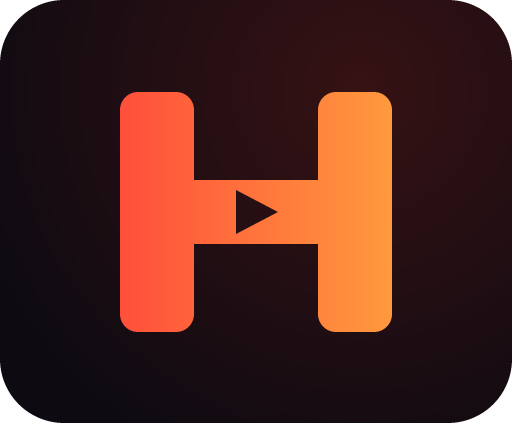
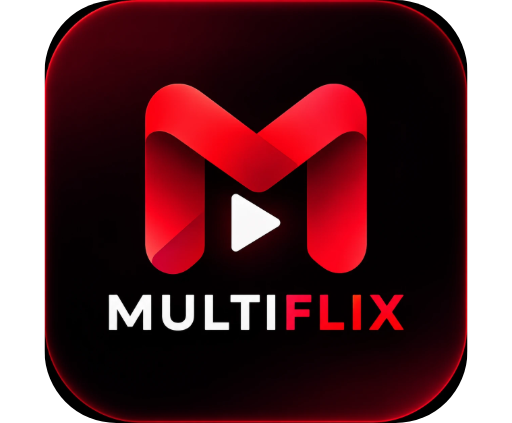
feat: marca MultiFlix, pôsteres das pastas e correções do player na TV
- Player: html transparente durante a reprodução (vídeo do AVPlay aparecia
  preto) e <object> do AVPlay invisível (Tizen 9 desenhava um ícone no centro)
- Servidor: em pasta com um único filme (ou na pasta da série), qualquer
  imagem vira a capa — nomes conhecidos primeiro, senão a maior
- App: cards em formato pôster (2:3), pôster nítido no banner e nos detalhes
- Logo e ícone MultiFlix; nome exibido na TV passa a ser MultiFlix (ID do
  pacote mantido para preservar o histórico)

diff --git a/homeflix/src/styles/main.css b/homeflix/src/styles/main.css
@@ -51,9 +51,14 @@ body {
   transform-origin: 0 0;
 }
 
-/* AVPlay desenha o vídeo atrás da página: tudo precisa ficar transparente. */
-body.is-playing,
-body.is-playing .stage {
+/*
+ * AVPlay desenha o vídeo numa camada de hardware ATRÁS da página: html, body e
+ * palco precisam ficar transparentes, senão ouve-se o áudio mas a tela fica preta.
+ */
+html.is-playing,
+html.is-playing body,
+html.is-playing .stage,
+html.is-playing .screens {
   background: transparent;
 }
 
@@ -80,22 +85,9 @@ body.is-playing .stage {
 /* ---------- Marca ---------- */
 
 .brand {
-  font-size: 46px;
-  font-weight: 800;
-  letter-spacing: 3px;
-  line-height: 1;
-}
-
-.brand__home {
-  color: var(--text);
-}
-
-.brand__flix {
-  color: var(--brand);
-  background: linear-gradient(90deg, var(--brand), var(--brand-2));
-  -webkit-background-clip: text;
-  background-clip: text;
-  -webkit-text-fill-color: transparent;
+  display: block;
+  height: 72px;
+  width: auto;
 }
 
 .topbar {
@@ -239,7 +231,39 @@ body.is-playing .stage {
   top: 0;
   left: 0;
   width: 1920px;
-  height: 660px;
+  height: 600px;
+}
+
+.artwork--hero.artwork--loaded .artwork__image,
+.artwork--backdrop.artwork--loaded .artwork__image {
+  opacity: 0.22;
+}
+
+.hero__poster {
+  position: absolute;
+  top: 120px;
+  right: var(--gutter);
+  width: 260px;
+  height: 390px;
+  border-radius: var(--radius);
+  overflow: hidden;
+  box-shadow: 0 24px 60px rgba(0, 0, 0, 0.7);
+}
+
+.details__poster {
+  position: absolute;
+  top: 150px;
+  right: 140px;
+  width: 420px;
+  height: 630px;
+  border-radius: 16px;
+  overflow: hidden;
+  box-shadow: 0 30px 80px rgba(0, 0, 0, 0.75);
+}
+
+.artwork--poster {
+  width: 100%;
+  height: 100%;
 }
 
 .hero--empty {
@@ -261,8 +285,8 @@ body.is-playing .stage {
 .hero__content {
   position: absolute;
   left: var(--gutter);
-  top: 170px;
-  width: 980px;
+  top: 160px;
+  width: 1100px;
 }
 
 .hero__kind,
@@ -317,7 +341,7 @@ body.is-playing .stage {
 
 .home__body {
   position: absolute;
-  top: 560px;
+  top: 520px;
   left: 0;
   right: 0;
   bottom: 0;
@@ -356,16 +380,21 @@ body.is-playing .stage {
 .card {
   position: relative;
   flex: none;
-  width: 400px;
+  width: 240px;
   margin-right: 24px;
   transition: transform 160ms var(--ease);
   transform-origin: 50% 40%;
 }
 
-.artwork--card {
-  width: 400px;
-  height: 225px;
+.card .artwork--poster {
+  width: 240px;
+  height: 360px;
   border-radius: var(--radius);
+}
+
+.card .artwork__title {
+  font-size: 26px;
+  -webkit-line-clamp: 4;
 }
 
 .card.is-focused {
@@ -373,7 +402,7 @@ body.is-playing .stage {
   z-index: 2;
 }
 
-.card.is-focused .artwork--card {
+.card.is-focused .artwork--poster {
   box-shadow: 0 0 0 5px var(--focus-ring), 0 18px 40px rgba(0, 0, 0, 0.6);
 }
 
@@ -388,7 +417,7 @@ body.is-playing .stage {
 }
 
 .card__title {
-  font-size: 26px;
+  font-size: 24px;
   font-weight: 600;
   white-space: nowrap;
   overflow: hidden;
@@ -406,7 +435,7 @@ body.is-playing .stage {
 
 .card-progress {
   position: absolute;
-  top: 205px;
+  top: 340px;
   left: 14px;
   right: 14px;
   height: 7px;
@@ -673,6 +702,14 @@ body.is-playing .stage {
 
 .player__html5 {
   background: #000;
+}
+
+/*
+ * O <object> do AVPlay só precisa existir; o vídeo é desenhado na camada de
+ * hardware. No Tizen 9 ele exibe um ícone de plugin no centro se ficar visível.
+ */
+.player__avplay {
+  opacity: 0;
 }
 
 .player__subtitles {

diff --git a/homeflix/src/components/ui.ts b/homeflix/src/components/ui.ts
@@ -1,6 +1,7 @@
 import type { CardItem, HomeSection } from '../models/library';
 import { h } from '../utils/dom';
 import { displayTitle, hashString } from '../utils/format';
+import logoUrl from '../assets/brand/logo.png';
 
 const SVG_NS = 'http://www.w3.org/2000/svg';
 
@@ -75,7 +76,7 @@ export function artwork(title: string, artworkUrl: string | null, resolve: (path
   const placeholder = h(
     'div',
     { class: `artwork__placeholder artwork__placeholder--${variant}` },
-    h('span', { class: 'artwork__mark' }, 'HOMEFLIX'),
+    h('span', { class: 'artwork__mark' }, 'MULTIFLIX'),
     h('span', { class: 'artwork__title' }, displayTitle(title)),
   );
   placeholder.style.backgroundImage = `linear-gradient(135deg, hsl(${hue}, 45%, 24%) 0%, hsl(${(hue + 40) % 360}, 55%, 12%) 70%, #0b0b0f 100%)`;
@@ -101,7 +102,7 @@ export function card(item: CardItem, resolve: (path: string) => string, onSelect
       'data-key': item.key,
       onclick: () => onSelect(item),
     },
-    artwork(item.title, item.artworkUrl, resolve),
+    artwork(item.title, item.artworkUrl, resolve, 'poster'),
     item.badge ? h('span', { class: 'card__badge' }, icon('check', 'icon icon--small'), item.badge) : null,
     progressBar(item.progress, 'card-progress'),
     h('div', { class: 'card__caption' }, h('div', { class: 'card__title' }, displayTitle(item.title)), h('div', { class: 'card__subtitle' }, item.subtitle)),
@@ -130,5 +131,10 @@ export function spinner(): HTMLElement {
 }
 
 export function brand(): HTMLElement {
-  return h('div', { class: 'brand' }, h('span', { class: 'brand__home' }, 'HOME'), h('span', { class: 'brand__flix' }, 'FLIX'));
+  return h('img', { class: 'brand', src: logoUrl, alt: 'MultiFlix', decoding: 'async' });
+}
+
+/** Pôster nítido (vertical) ao lado do texto, no banner e nos detalhes. Só quando há imagem real. */
+export function posterPanel(title: string, artworkUrl: string | null, resolve: (path: string) => string, className: string): HTMLElement | null {
+  return artworkUrl ? h('div', { class: className }, artwork(title, artworkUrl, resolve, 'poster')) : null;
 }

diff --git a/home-media-server/test/library-builder.test.ts b/home-media-server/test/library-builder.test.ts
@@ -156,6 +156,22 @@ describe('capas existentes', () => {
     expect(byPath(library, 'Pasta Unica/x.mkv').artwork).toEqual({ relativePath: 'Pasta Unica/folder.png', format: 'png' });
   });
 
+  it('usa qualquer imagem da pasta de um único filme (a maior, se houver várias)', () => {
+    const custom = buildLibrary('local', [
+      { relativePath: 'Home Alone/Home.Alone.1990.mkv', sizeBytes: 1000, modifiedAt: new Date(0) },
+      { relativePath: 'Home Alone/A1T+lZ6iUZL._AC_UF894,1000_QL80_.jpg', sizeBytes: 121_050, modifiedAt: new Date(0) },
+      { relativePath: 'Home Alone/thumb.jpg', sizeBytes: 3_000, modifiedAt: new Date(0) },
+      { relativePath: 'Mickey/4c55a1e6.png', sizeBytes: 47_340, modifiedAt: new Date(0) },
+      { relativePath: 'Mickey/Mickey.mkv', sizeBytes: 1000, modifiedAt: new Date(0) },
+      { relativePath: 'Raiz A.mkv', sizeBytes: 1000, modifiedAt: new Date(0) },
+      { relativePath: 'Raiz B.mkv', sizeBytes: 1000, modifiedAt: new Date(0) },
+      { relativePath: 'qualquer.jpg', sizeBytes: 9_999, modifiedAt: new Date(0) },
+    ]);
+    expect(byPath(custom, 'Home Alone/Home.Alone.1990.mkv').artwork?.relativePath).toBe('Home Alone/A1T+lZ6iUZL._AC_UF894,1000_QL80_.jpg');
+    expect(byPath(custom, 'Mickey/Mickey.mkv').artwork).toEqual({ relativePath: 'Mickey/4c55a1e6.png', format: 'png' });
+    expect(byPath(custom, 'Raiz A.mkv').artwork).toBeNull(); // pasta com vários vídeos: não adivinha
+  });
+
   it('usa o pôster da pasta da série', () => {
     expect(library.series[0]?.artwork).toEqual({ relativePath: 'Series/Show/poster.jpg', format: 'jpg' });
   });

diff --git a/home-media-server/src/library/library-builder.ts b/home-media-server/src/library/library-builder.ts
@@ -63,6 +63,11 @@ export function buildLibrary(
 
   const subtitlesByVideo = associateSubtitles(sourceId, subtitleFiles, videosByDir);
 
+  /**
+   * Capa que representa a pasta inteira: primeiro os nomes conhecidos (poster, capa...);
+   * senão, qualquer imagem da pasta (a maior, que costuma ser o pôster e não uma miniatura).
+   * Só deve ser usada quando a pasta pertence a um único filme ou a uma série.
+   */
   const folderArt = (dir: string | null): Artwork | null => {
     if (dir === null) return null;
     const images = imagesByDir.get(dir === '' ? '.' : dir) ?? [];
@@ -70,7 +75,8 @@ export function buildLibrary(
       const found = images.find((image) => lowerKey(baseOf(image.relativePath)) === wanted);
       if (found) return toArtwork(found);
     }
-    return null;
+    const largest = [...images].sort((a, b) => b.sizeBytes - a.sizeBytes || collator.compare(a.relativePath, b.relativePath))[0];
+    return largest ? toArtwork(largest) : null;
   };
 
   const videoArt = (video: DiscoveredFile): Artwork | null => {
@@ -81,7 +87,7 @@ export function buildLibrary(
       const found = images.find((image) => lowerKey(baseOf(image.relativePath)) === base + suffix);
       if (found) return toArtwork(found);
     }
-    // "poster.jpg" na pasta só vale para o vídeo quando ele é o único da pasta.
+    // Imagens da pasta (qualquer nome) só valem para o vídeo quando ele é o único da pasta.
     return (videosByDir.get(dir)?.length ?? 0) === 1 ? folderArt(dir) : null;
   };
 

diff --git a/homeflix/src/screens/home-screen.ts b/homeflix/src/screens/home-screen.ts
@@ -1,6 +1,6 @@
 import { ApiError } from '../api/media-api';
 import type { AppContext } from '../app-context';
-import { artwork, brand, button, progressBar, row, spinner } from '../components/ui';
+import { artwork, brand, button, posterPanel, progressBar, row, spinner } from '../components/ui';
 import { buildHomeSections, type CardItem, type HomeSection } from '../models/library';
 import type { Screen } from '../navigation/router';
 import type { RemoteKey } from '../platform/keys';
@@ -140,6 +140,7 @@ export class HomeScreen implements Screen {
     append(this.hero, [
       artwork(item.title, item.artworkUrl, (path) => this.ctx.api.resolve(path), 'hero'),
       h('div', { class: 'hero__shade' }),
+      posterPanel(item.title, item.artworkUrl, (path) => this.ctx.api.resolve(path), 'hero__poster'),
       h(
         'div',
         { class: 'hero__content' },

diff --git a/homeflix/src/screens/player-screen.ts b/homeflix/src/screens/player-screen.ts
@@ -149,7 +149,7 @@ export class PlayerScreen implements Screen {
   }
 
   async mount(): Promise<void> {
-    document.body.classList.add('is-playing');
+    document.documentElement.classList.add('is-playing');
     document.addEventListener('visibilitychange', this.onVisibility);
     window.addEventListener('pagehide', this.onPageHide);
     setScreenSaver(false);
@@ -242,7 +242,7 @@ export class PlayerScreen implements Screen {
     this.menu?.close();
     this.playback?.stop();
     this.playback = null;
-    document.body.classList.remove('is-playing');
+    document.documentElement.classList.remove('is-playing');
     document.removeEventListener('visibilitychange', this.onVisibility);
     window.removeEventListener('pagehide', this.onPageHide);
     setScreenSaver(true);

diff --git a/homeflix/src/screens/movie-screen.ts b/homeflix/src/screens/movie-screen.ts
@@ -1,5 +1,5 @@
 import type { AppContext } from '../app-context';
-import { artwork, button, progressBar } from '../components/ui';
+import { artwork, button, posterPanel, progressBar } from '../components/ui';
 import type { Video } from '../models/media';
 import type { Screen } from '../navigation/router';
 import { append, clear, h } from '../utils/dom';
@@ -21,6 +21,7 @@ export class MovieScreen implements Screen {
       { class: 'screen details' },
       artwork(video.title, video.artworkUrl, (path) => ctx.api.resolve(path), 'backdrop'),
       h('div', { class: 'details__shade' }),
+      posterPanel(video.title, video.artworkUrl, (path) => ctx.api.resolve(path), 'details__poster'),
       this.panel,
     );
   }

diff --git a/homeflix/src/main.ts b/homeflix/src/main.ts
@@ -66,9 +66,9 @@ function boot(): void {
     if (exitDialogOpen) return;
     exitDialogOpen = true;
     const choice = await showDialog(overlays, {
-      title: 'Sair do HomeFlix?',
+      title: 'Sair do MultiFlix?',
       actions: [
-        { value: 'stay', label: 'Continuar no HomeFlix', primary: true },
+        { value: 'stay', label: 'Continuar no MultiFlix', primary: true },
         { value: 'exit', label: 'Sair' },
       ],
     });

diff --git a/homeflix/src/screens/settings-screen.ts b/homeflix/src/screens/settings-screen.ts
@@ -89,7 +89,7 @@ export class SettingsScreen implements Screen {
         'section',
         { class: 'settings__section settings__about' },
         h('h2', {}, 'Sobre'),
-        h('p', {}, `HomeFlix ${__APP_VERSION__} · ${deviceDescription()}`),
+        h('p', {}, `MultiFlix ${__APP_VERSION__} · ${deviceDescription()}`),
       ),
     );
 

diff --git a/homeflix/index.html b/homeflix/index.html
@@ -3,7 +3,7 @@
   <head>
     <meta charset="utf-8" />
     <meta name="viewport" content="width=1920, height=1080, user-scalable=no" />
-    <title>HomeFlix</title>
+    <title>MultiFlix</title>
     <!-- tizen:webapis -->
   </head>
   <body>

diff --git a/homeflix/README.md b/homeflix/README.md
@@ -1,5 +1,7 @@
 # HomeFlix — app Samsung Smart TV (Tizen)
 
+> Na TV o app aparece como **MultiFlix** (logo e ícone em `src/assets/brand/` e `tizen/icon.png`). O nome interno do projeto e o ID do pacote (`HmFlxApp01.HomeFlix`) continuam os mesmos para preservar o histórico já salvo na TV.
+
 Plataforma pessoal de streaming, com interface inspirada na Netflix, para assistir na **Samsung Q60C** aos vídeos do PC servidos pelo [Home Media Server](../home-media-server).
 
 - Tela inicial com banner e fileiras: **Continuar assistindo**, **Filmes**, **Séries**, **Adicionados recentemente**.
@@ -75,7 +77,6 @@ No navegador, o player usa `<video>` HTML5. MKV com áudio AC-3/DTS costuma não
 | `npm run build` | Typecheck + bundle IIFE em `dist/` + `config.xml` e ícone (pronto para empacotar). |
 | `npm test` | Testes automatizados (Vitest + happy-dom). |
 | `npm run check` | Typecheck, testes e build. |
-| `npm run icons` | Regenera `tizen/icon.png` (512×423). |
 | `npm run package` | Build + `.wgt` assinado com o Tizen Studio CLI → `release/HomeFlix.wgt`. |
 | `npm run install:tv -- -TvIp <IP>` | Conecta via `sdb`, instala e abre o app na TV. |
 
@@ -201,7 +202,7 @@ Decisões principais:
 - **Foco declarativo:** grupos (`data-focus-group`) com orientação e vizinhos explícitos, em vez de cálculo geométrico. É previsível, testável e cada fileira lembra o último card.
 - **Telas empilhadas e ocultas** (não destruídas): voltar é instantâneo e restaura o foco pelo `data-key` do item.
 - **Motor de vídeo plugável** (`VideoEngine`): AVPlay na TV, `<video>` no navegador, motor falso nos testes.
-- **Capas:** só imagens que já existem nas pastas. Sem imagem, o placeholder é um gradiente com cor estável derivada do título. Nada de capas ou metadados inventados.
+- **Capas:** só imagens que já existem nas pastas, exibidas como pôster vertical (2:3) nos cards, no banner e nos detalhes. Sem imagem, o placeholder é um gradiente com cor estável derivada do título. Nada de capas ou metadados inventados.
 
 ## Testes
 

diff --git a/home-media-server/README.md b/home-media-server/README.md
@@ -10,7 +10,7 @@ Backend de uma plataforma pessoal de streaming (estilo Netflix) que disponibiliz
 - Página HTML de teste para navegar no catálogo e reproduzir no navegador.
 - **Séries e episódios** identificados por pastas e nomes (`S01E01`, `1x01`, `Temporada 1`…), com correções manuais opcionais.
 - **Legendas externas** (`.srt`/`.vtt`) associadas aos vídeos e entregues sempre em WebVTT UTF-8.
-- **Capas** já existentes nas pastas (`Filme.jpg`, `poster.jpg`…), sem inventar imagens.
+- **Capas** já existentes nas pastas (`Filme.jpg`, `poster.jpg` ou qualquer imagem na pasta de um único filme), sem inventar imagens.
 - Consumido pelo app **HomeFlix** para Samsung Tizen (pasta `../homeflix`).
 - Sem transcodificação nesta versão (veja [Limitações de codecs e contêineres](#limitações-de-codecs-e-contêineres)).
 
@@ -212,7 +212,7 @@ Filmes têm `"media": { "kind": "movie" }`. `artworkUrl` é `null` quando não h
 | `GET /api/series/:id/artwork` | Capa da série (`poster/capa/cover/folder.jpg` na pasta da série). |
 | `GET /api/videos/:id/subtitles` | Legendas associadas ao vídeo. |
 | `GET /api/videos/:id/subtitles/:subtitleId` | A legenda convertida para **WebVTT UTF-8** (`text/vtt`). 422 `SUBTITLE_INVALID` se o arquivo não tiver falas válidas; 413 acima de 5 MB. |
-| `GET /api/videos/:id/artwork` | Capa do vídeo, quando existe na pasta. |
+| `GET /api/videos/:id/artwork` | Capa do vídeo, quando existe na pasta: imagem com o mesmo nome do vídeo; ou, numa pasta com um único vídeo, `poster/capa/cover/folder` ou qualquer outra imagem (a maior). |
 
 **Como os episódios são identificados** (`src/library/media-classifier.ts`). Só vira episódio quando há evidência de temporada **e** episódio, e um nome de série. Na dúvida, o arquivo continua como filme avulso.
 
